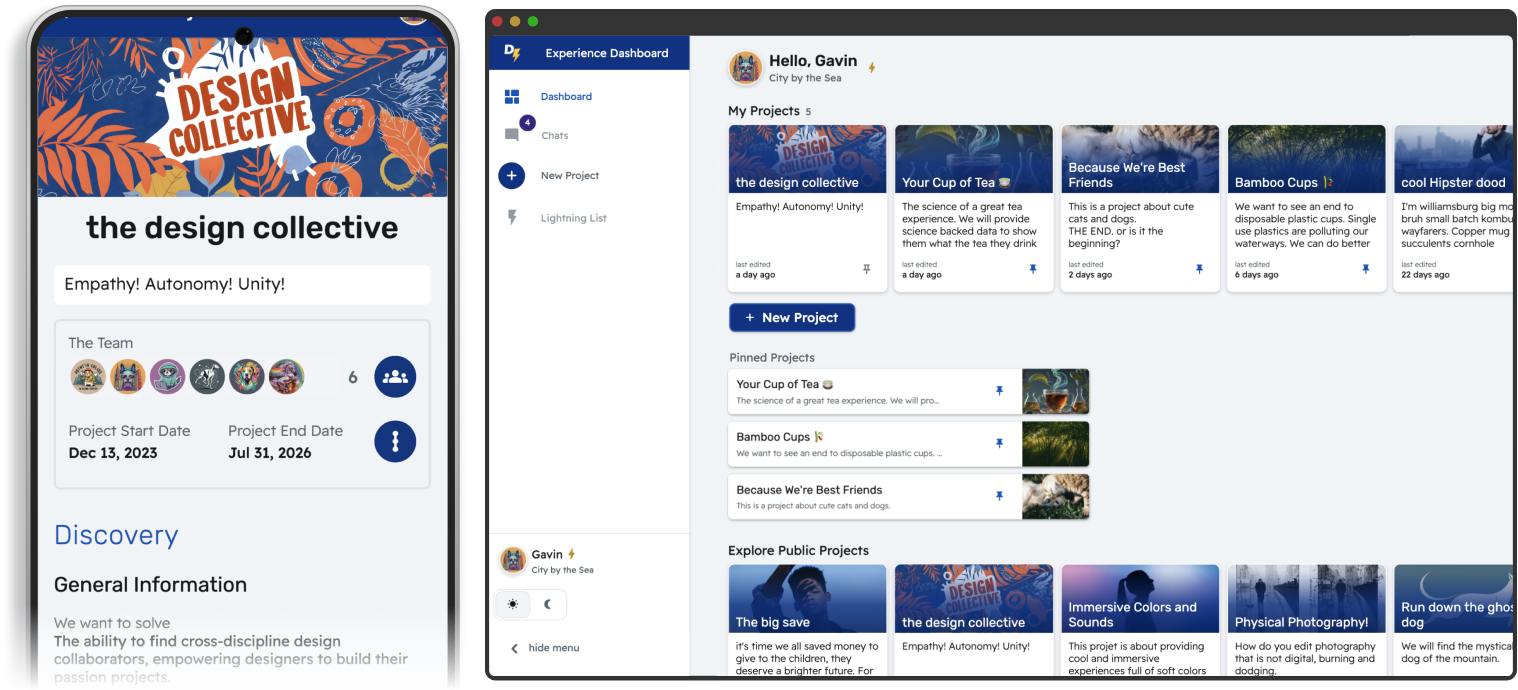
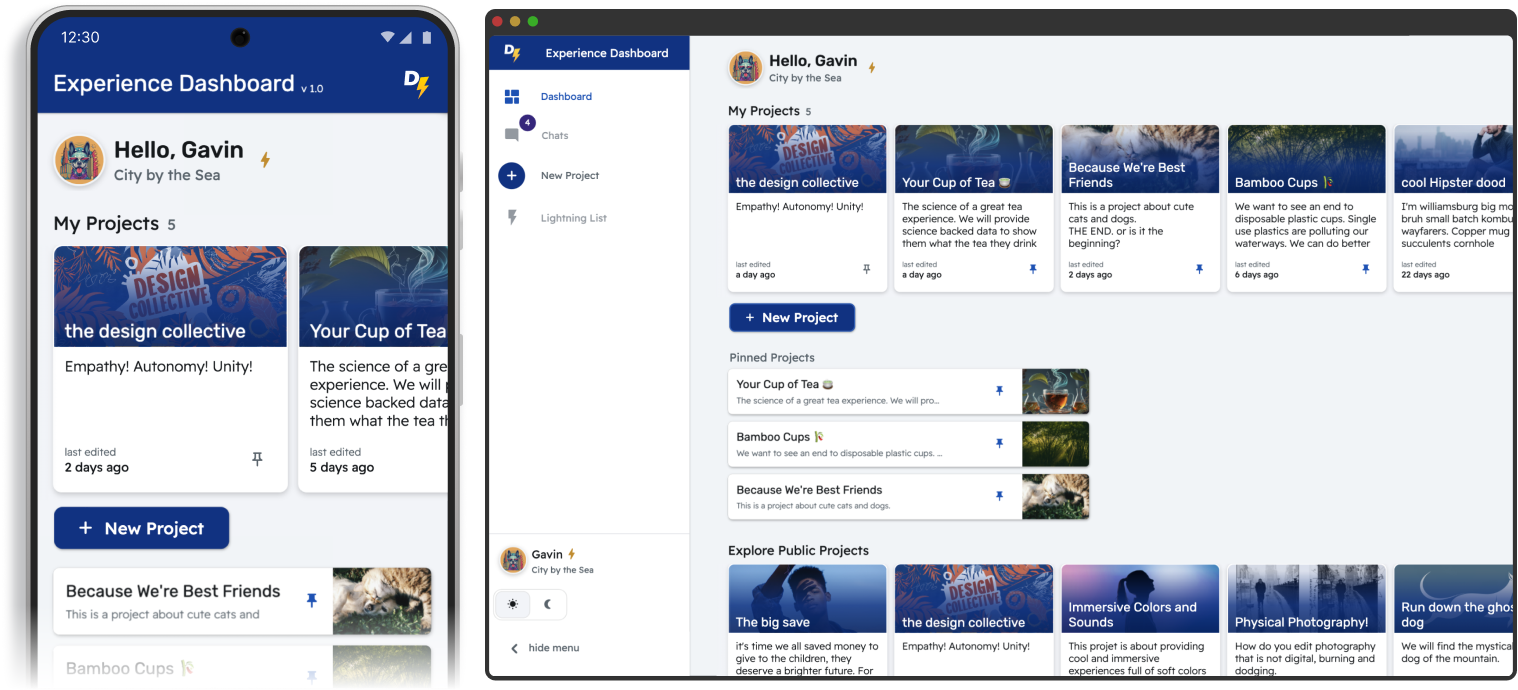
new section

Changed region(s): [[0.0, 0.0304, 0.3096, 0.7], [0.031, 0.7304, 0.3096, 1.0], [0.031, 0.6087, 0.1238, 0.7]]

diff --git a/experience-builder.html b/experience-builder.html
@@ -68,16 +68,26 @@
                                     <img style="width: 100%" src="img/exp-builder/ExpDashLrgPhoneAndDT.png" alt="project stages">
                                 </div>
                             </div>
-                            <!-- <div class="col-xl-3 col-lg-3  col-md-3" style="padding-right: 0px;">
-                                <div class="wow fadeInUp" data-wow-duration=".7s" data-wow-delay=".5s">
-                                    <img style="width: 86%" src="img/exp-builder/OverviewLrgPhone.png" alt="project stages">
-                                </div>
-                            </div> -->
                         </div>
                     </div>
                 </div>
             
             <!--/ about  -->
+            <br>
+            <!-- big area-->
+    <div class="container">
+        <div class="row" style="position: relative;">
+            <h3 class="mb-30 mt-30">Experience Design Hub</h3>
+            <img class="img-fluid main-img wow fadeInUp" data-wow-duration=".6s" data-wow-delay=".9s" src="img/exp-builder/main-screen.png"> 
+            <img class="img-fluid proto-img wow fadeInRight" data-wow-duration=".6s" data-wow-delay="1.9s" src="img/exp-builder/proto-persona.png"> 
+            <img class="img-fluid hypo-img wow fadeInLeft" data-wow-duration=".6s" data-wow-delay="2.2s" src="img/exp-builder/Hypothesis.png">
+            <img class="img-fluid anal-img wow fadeInLeft" data-wow-duration=".6s" data-wow-delay="2.8s" src="img/exp-builder/Analysis.png">
+        </div>
+        <div class="section-top-border">
+        </div>
+    </div>
+            <!-- END OF FIRST SECTION project bonanza -->
+             <br><br>
                             <!-- new area-->
                             <div class="container" style="border-bottom: 1px solid #E8E8E8;">
                                 <!-- <div class="row process_img">
@@ -86,13 +96,13 @@
                                 <div class="section-top-border">
                                 <div class="row">
                                     <div class="col-lg-7 col-md-9">
-                                        <h3 class="mb-30">Project Hub</h3>
-                                        <p>Projects are the core of the D⚡ Experience Builder. Each project contains the team information and details about market segmentation, product goals, business questions, upcoming interviews, user personas and so much more.</p>
+                                        <h3 class="mb-30">Process Organization</h3>
+                                        <p>Generative research is at the core of the D⚡ Experience Builder. Each project contains details about market segmentation, product goals, business questions, upcoming interviews, user personas and so much more.</p>
                                         <p>
-                                        Each project follows the Experience Design methods laid out in <i>Your Cup of Tea</i> revealing how the product will serve it's customers.
+                                        Each project follows the Experience Design methods laid out in <a href="tea-landing.html"><i>Your Cup of Tea</i></a> revealing how the product will serve it's customers.
                                         </p>
                                         <p>
-                                        Methods are broken into bits sized chunks so that you can flow through the process creating a chronological account of your project.The templates are flexible; nothing is required and you can undo any action.
+                                        Methods are broken into bits sized chunks so that you can flow through the process creating a chronological account of your project. The templates are flexible; nothing is required and you can undo any action.
                                         </p>
                                     </div>
 
@@ -125,7 +135,7 @@
                                     </div>
                                 </div>
                             </div>
-<!-- END OF FIRST SECTION SCROLLABLE PHONE -->
+<!-- END OF SECTION SCROLLABLE PHONE project dash-->
                             <div class="section-top-border">
                                 <div class="Process_main_wrap">
                                     <div class="row">
@@ -205,8 +215,9 @@
 
                                 <div class="section-top-border">
                                     <div class="row">
-                                        <div class="col-lg-6 col-md-6" style="padding: 60px 3px;">
-                                            <h3 class="mb-30">Beautiful, without lifting a finger</h3>
+                                        <div class="col-lg-6 col-md-6" style="padding: 20px 3px;">
+                                            <h3>Beautiful Design Artifacts</h3>
+                                            <h4 class="mb-30">without finger cramping</h4>
                                             <p>
                                             As you complete the Experience Design Phases progress is output to your project Overview.
                                             <br><br>
@@ -225,13 +236,13 @@
                                             <div class="col-xl-4 col-lg-4 col-md-4" style="padding: 0px 0px;">
                                                 <div class="Process_info" style="padding: 0px 12px;">
                                                     <h3 class="wow fadeInUp" data-wow-duration=".5s" data-wow-delay=".3s">Dark Mode</h3>
-                                                    <p class="wow fadeInUp" data-wow-duration=".6s" data-wow-delay=".4s">Need I say more?</p>
+                                                    <p class="wow fadeInUp" data-wow-duration=".6s" data-wow-delay=".4s">Need we say more?</p>
                                                     <ul>
                                                         <li class="wow fadeInUp" data-wow-duration=".7s" data-wow-delay=".5s">
                                                             Save your eyes at night
                                                         </li>
                                                         <li class="wow fadeInUp" data-wow-duration=".8s" data-wow-delay=".6s">
-                                                            Enter deep Flow states
+                                                            Enter deep flow states
                                                         </li>
                                                         <li class="wow fadeInUp" data-wow-duration=".9s" data-wow-delay=".7s">
                                                             Stare deeply into the abyss

diff --git a/css/phone-mock.css b/css/phone-mock.css
@@ -134,6 +134,33 @@ html {
   /* background-image: url("../img/exp-builder/bottom-menu-bar.png"); */
 }
 
+.main-img {
+  margin: 0 auto;
+  width: 78%;
+  box-shadow: -2px 2px 4px #dddddd8d;
+}
+
+.proto-img{
+  position: absolute;
+  right: 2%;
+  top: 20%;
+  width: 22.4%;
+}
+
+.hypo-img{
+  position: absolute;
+  width: 32%;
+  left: -.1%;
+  top:38%;
+}
+
+.anal-img{
+  position: absolute;
+  width: 32%;
+  top: 84%;
+  left: 4%;
+}
+
 .phone.android .screen .screen-top .time {
   font-size: 10px;
   font-weight: 400;
